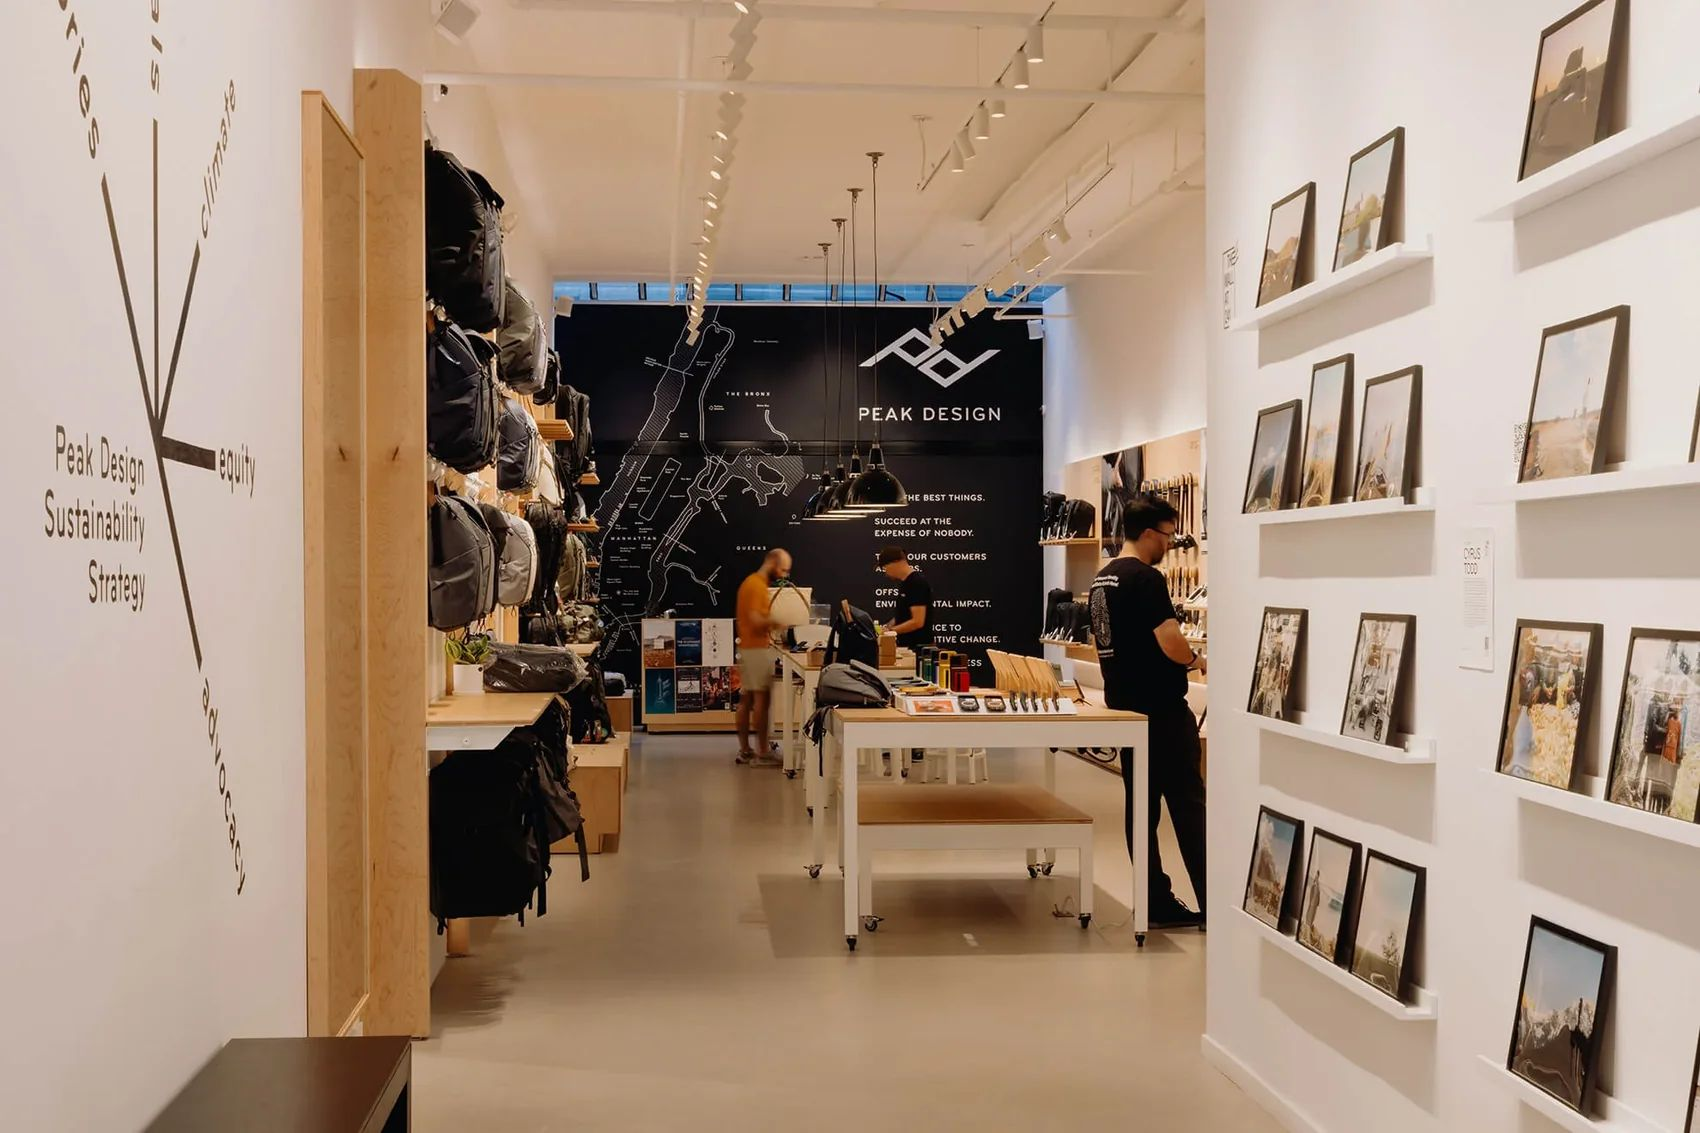
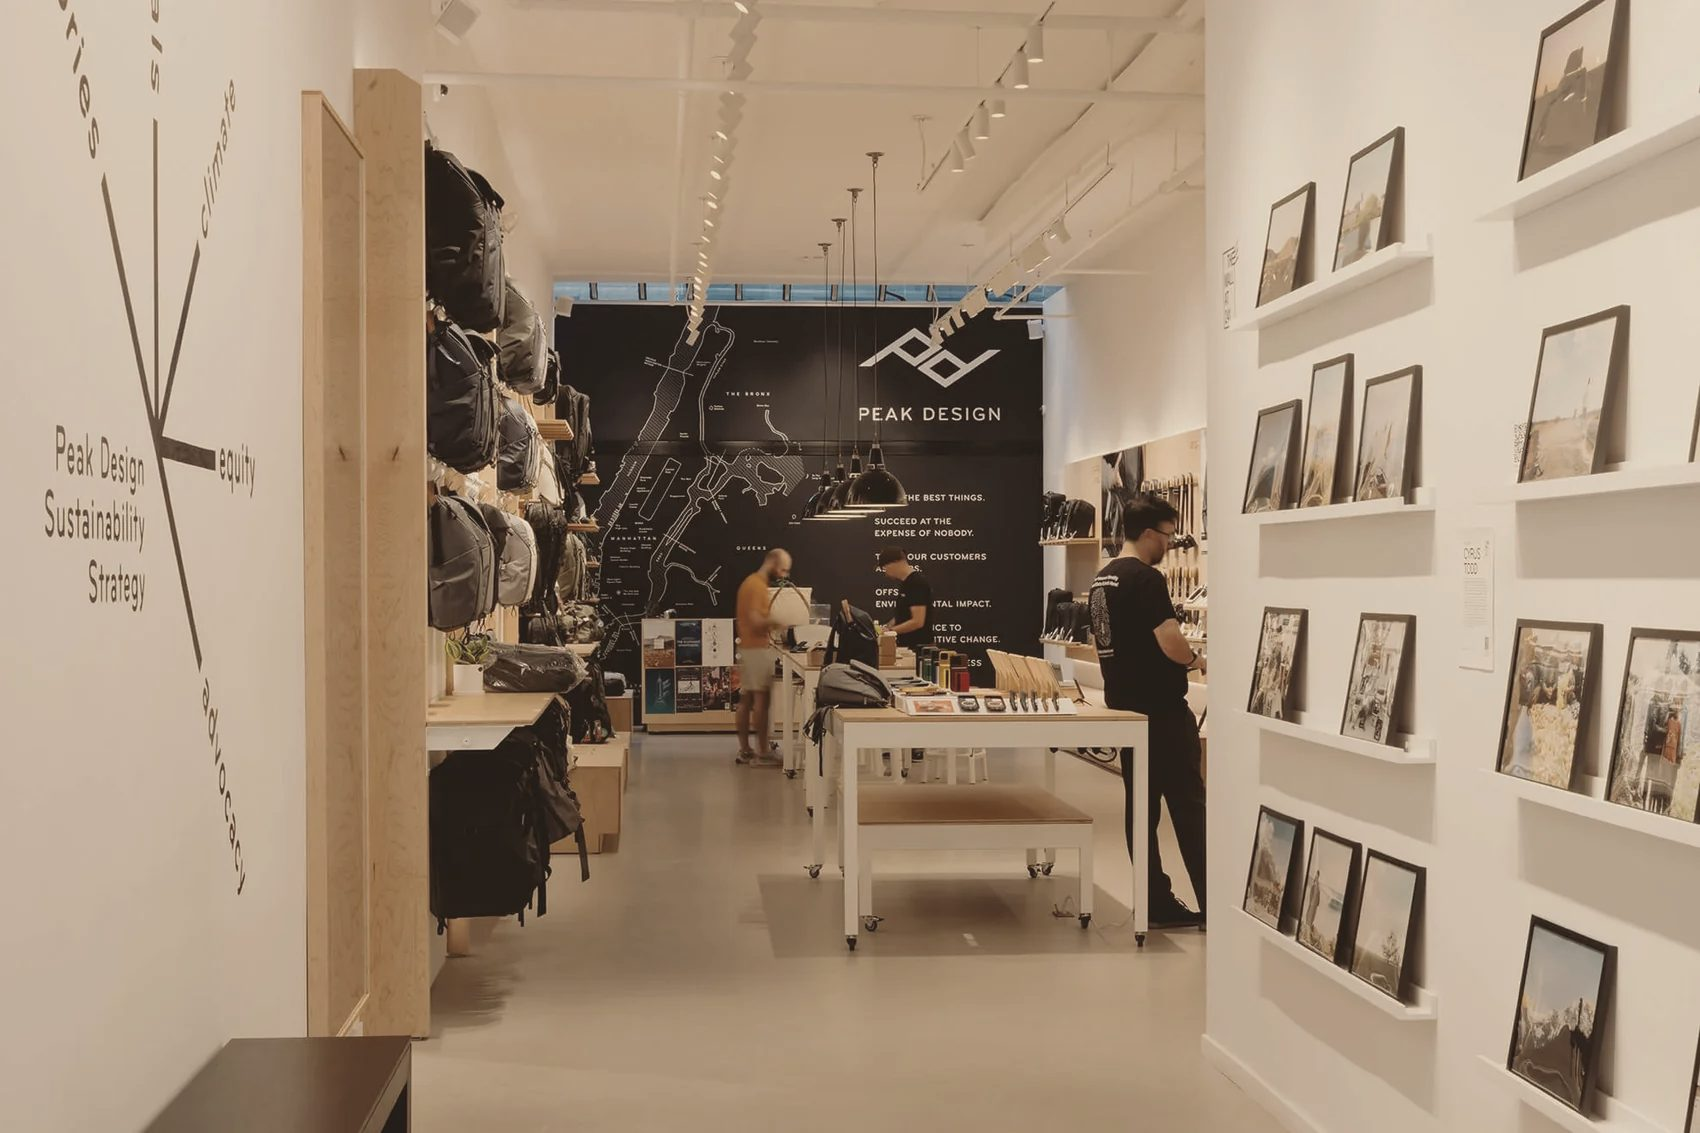
Add Vallerret photo and apply a shared colour grade to all photos
Claude-Session: https://claude.ai/code/session_01AmGfSoQUXxVQd1XeSQfmkv

diff --git a/index.html b/index.html
@@ -154,7 +154,7 @@ figure{margin:0}
   </div>
   <!-- IMAGES: replace the files in /images, keep the same file names -->
   <div class="wrap collage">
-    <figure class="img c1"><img src="images/hero-1-portrait.jpg" alt="Luke in the field" onerror="this.remove()"><figcaption>01 / Portrait: Luke in the field</figcaption></figure>
+    <figure class="img c1"><img src="images/hero-1-portrait.jpg" alt="Vallerret photography glove in the snow" onerror="this.remove()"><figcaption>01 / Portrait: Luke in the field</figcaption></figure>
     <figure class="img c2"><img src="images/hero-2-wide.jpg" alt="Travel landscape" onerror="this.remove()"><figcaption>02 / Wide: travel or landscape</figcaption></figure>
     <figure class="img c3"><img src="images/hero-3-square.jpg" alt="Oshun electrolyte concentrate" onerror="this.remove()"><figcaption>03 / Square: product detail</figcaption></figure>
     <figure class="img c4"><img src="images/hero-4-landscape.jpg" alt="Trade show floor" onerror="this.remove()"><figcaption>04 / Landscape: trade show or retail floor</figcaption></figure>
